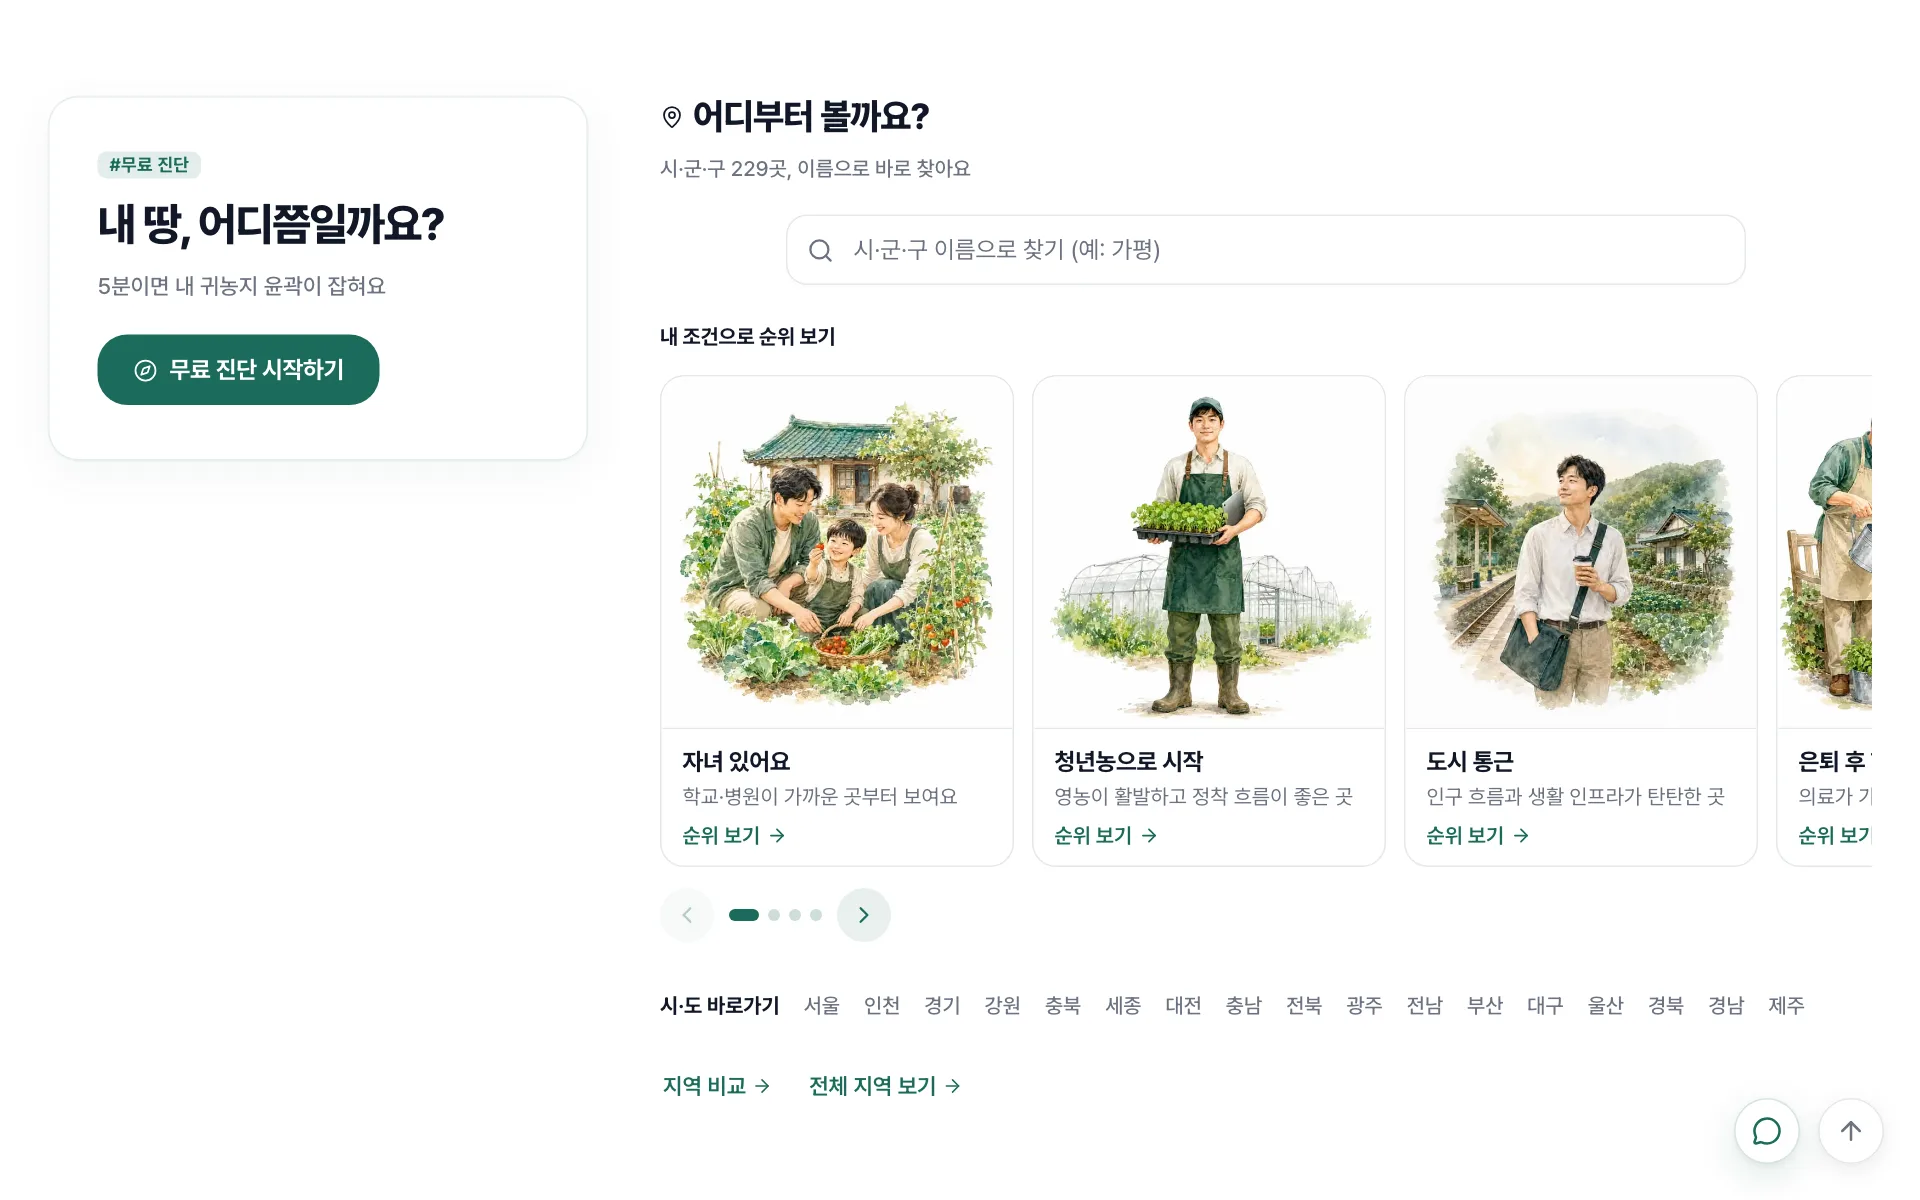
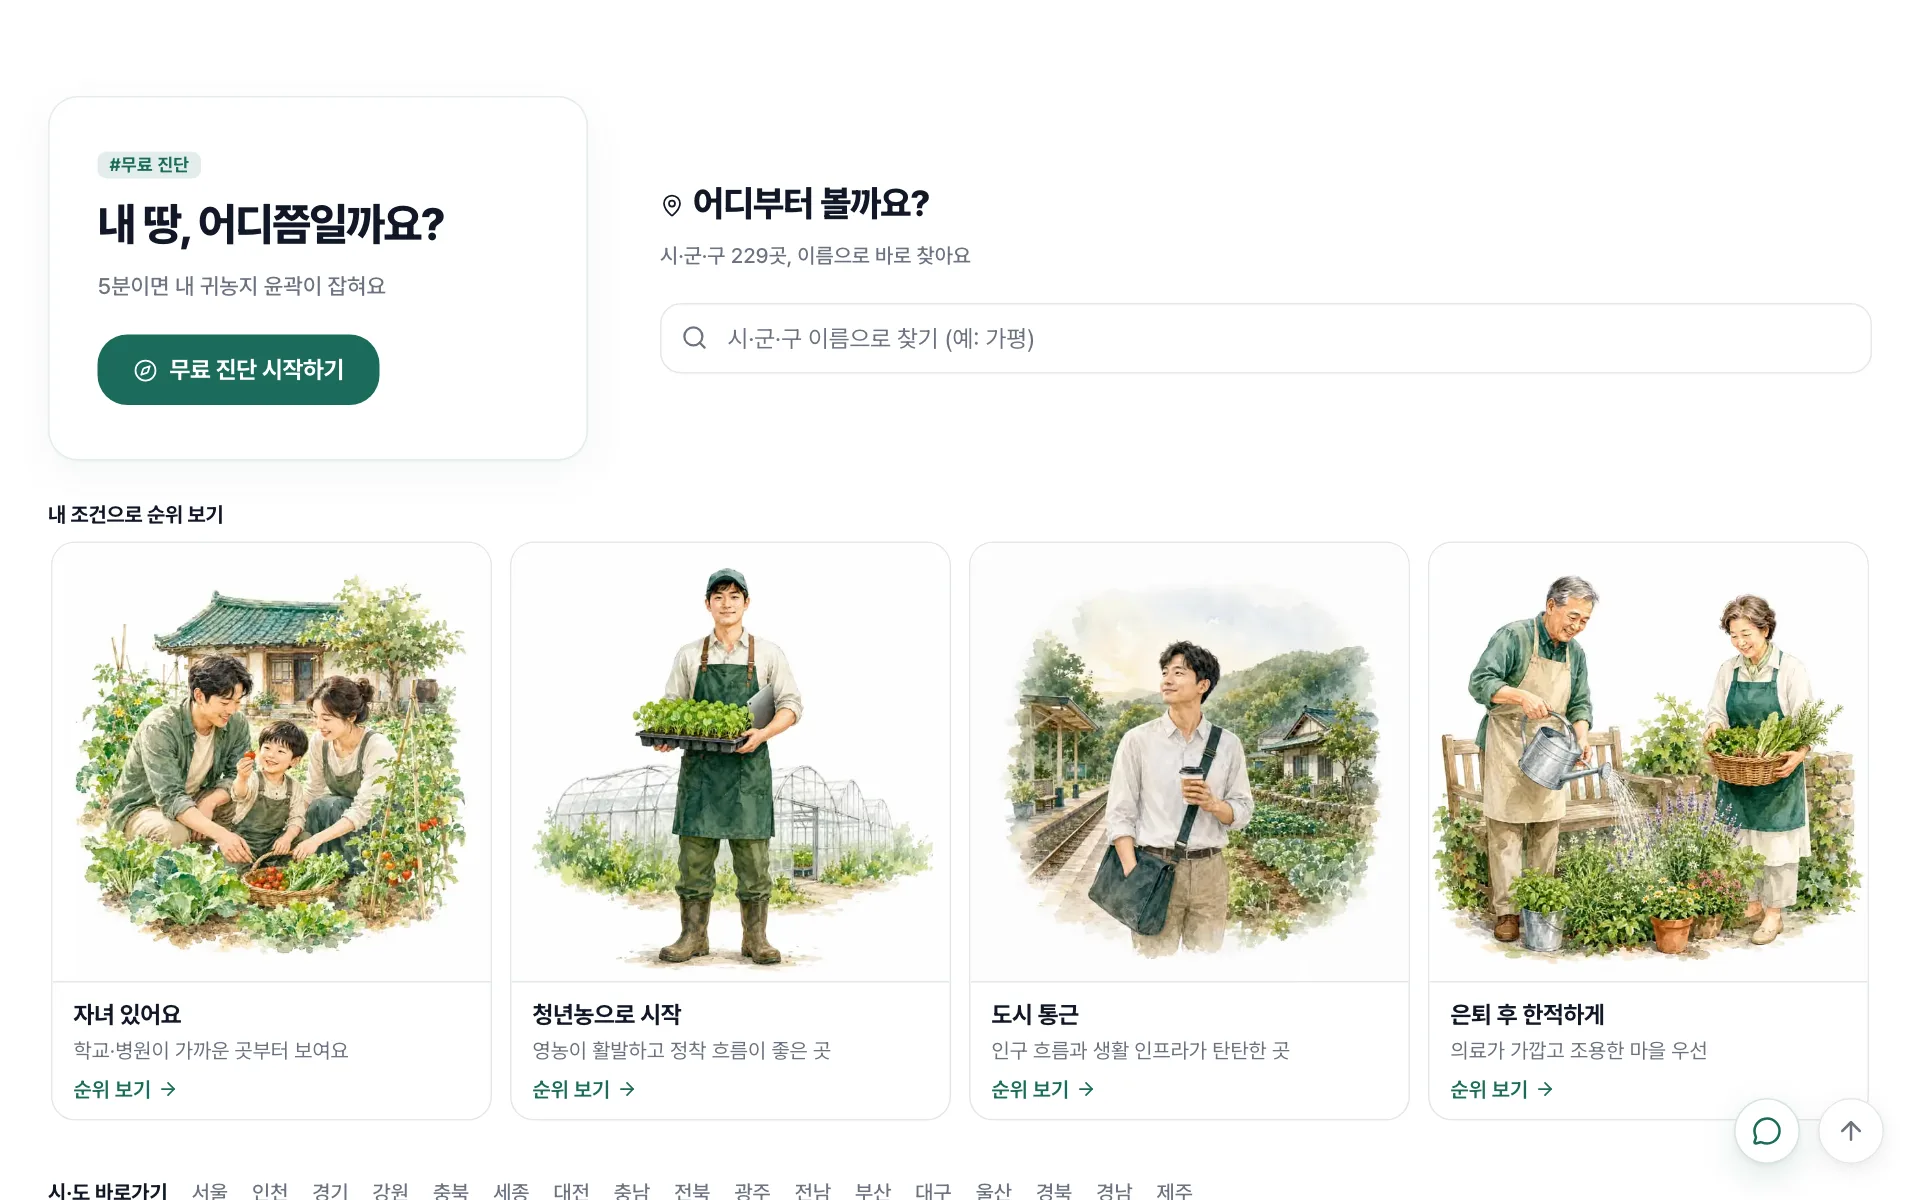
fix(landing): 바로 시작하기 레이아웃 3건 — 검색창 열 폭 정렬, 슬라이드·시·도 행 전폭 배치, 데스크탑 4장 채움
회장 데스크탑 스크린샷 자가 점검에서 발견:
- 검색창이 제목보다 84px 들여쓰기·폭 640 고정 → RegionSearch className prop + .fullWidth.fullWidth 로 열 폭 전체
- 좌 진단 카드(243px) 아래 공백 → grid-template-areas 로 슬라이드·시·도 행을 두 열에 걸치는 전폭 행으로, 1행 세로 중앙
- 4번째 카드 열 경계 잘림 → 전폭 행에서 flex:1 로 4장 채움, 스크롤 불가 시 화살표·점 숨김
- 5폭(375/768/1024/1280/1440) 실측: searchLeftDelta 0, overflowX 0. 업데이트 소식 이후 프레임 교체

diff --git a/src/components/landing/quick-start-section.module.css b/src/components/landing/quick-start-section.module.css
@@ -21,8 +21,18 @@
 @media (min-width: 1024px) {
   .section {
     grid-template-columns: minmax(0, 360px) minmax(0, 1fr);
-    gap: 48px;
+    grid-template-areas:
+      "assess region"
+      "persona persona"
+      "province province";
+    gap: 28px 48px;
+    align-items: center; /* 1행: 진단 카드 ↔ 검색 블록 세로 중앙 (9/6 회장 스크린샷 — 카드 아래 공백) */
   }
+
+  .assessCard { grid-area: assess; }
+  .regionBlock { grid-area: region; }
+  .personaBlock { grid-area: persona; }
+  .provinceBlock { grid-area: province; }
 }
 
 /* ══ 좌 — 진단 카드 ══ */
@@ -121,6 +131,11 @@
    모바일이 1순위다. 기본 선언 = 모바일(≤767) — 검색창 풀폭, 페르소나 2×2,
    시·도는 가로 스크롤이 아니라 wrap 되는 작은 텍스트 링크. 터치 타겟 44px 확보.
    ≥768 부터 밀도를 올린다(체크리스트 G: 기본 → @media 오버라이드). */
+.personaBlock,
+.provinceBlock {
+  min-width: 0;
+}
+
 .regionBlock {
   min-width: 0; /* 그리드/플렉스 자식 기본 min-width:auto → 슬라이드 트랙이 부모를 넓히는 것 방지 (9/6) */
   display: flex;
@@ -168,16 +183,13 @@
 
 /* ── 소제목 (조건별 순위 / 시·도) ── */
 .groupLabel {
-  margin: 14px 0 0;
+  margin: 0;
   font-size: var(--fs-caption);
   font-weight: 700;
   color: var(--foreground, #111827);
   letter-spacing: -0.01em;
 }
 
-@media (min-width: 640px) {
-  .groupLabel { margin-top: 18px; }
-}
 
 /* ── 시·도 바로가기 (작은 텍스트 링크 행) ── */
 .provinceRow {
@@ -185,11 +197,11 @@
   flex-wrap: wrap;
   align-items: center;
   gap: 0 2px;
-  margin: 14px 0 0;
+  margin: 0;
 }
 
 @media (min-width: 640px) {
-  .provinceRow { margin-top: 18px; gap: 0 4px; }
+  .provinceRow { gap: 0 4px; }
 }
 
 .provinceRowLabel {

diff --git a/src/components/landing/persona-slider.tsx b/src/components/landing/persona-slider.tsx
@@ -34,6 +34,7 @@ export function PersonaSlider({ items }: { items: readonly PersonaCard[] }) {
   const [active, setActive] = useState(0);
   const [canPrev, setCanPrev] = useState(false);
   const [canNext, setCanNext] = useState(true);
+  const [scrollable, setScrollable] = useState(true);
 
   useDragScroll(scrollRef);
 
@@ -45,6 +46,7 @@ export function PersonaSlider({ items }: { items: readonly PersonaCard[] }) {
     setActive(Math.min(Math.round(el.scrollLeft / step), items.length - 1));
     setCanPrev(el.scrollLeft > 4);
     setCanNext(el.scrollLeft + el.clientWidth < el.scrollWidth - 4);
+    setScrollable(el.scrollWidth > el.clientWidth + 4);
   }, [items.length]);
 
   useEffect(() => {
@@ -90,7 +92,7 @@ export function PersonaSlider({ items }: { items: readonly PersonaCard[] }) {
                 alt=""
                 width={320}
                 height={320}
-                sizes="(min-width: 768px) 200px, 62vw"
+                sizes="(min-width: 1024px) 25vw, (min-width: 768px) 200px, 62vw"
                 className={s.image}
               />
             </span>
@@ -106,7 +108,7 @@ export function PersonaSlider({ items }: { items: readonly PersonaCard[] }) {
         ))}
       </div>
 
-      <div className={s.controls}>
+      <div className={scrollable ? s.controls : `${s.controls} ${s.controlsHidden}`}>
         <button
           type="button"
           className={s.arrow}

diff --git a/src/components/region/region-search.tsx b/src/components/region/region-search.tsx
@@ -40,11 +40,13 @@ interface RegionSearchProps {
   onNavigate?: (href: string) => void;
   /** 입력창 안내 문구 (기본: 지역명 검색 예시) */
   placeholder?: string;
+  /** 루트 래퍼에 덧붙일 클래스 — 랜딩처럼 폭·정렬을 바꿀 때 (9/6) */
+  className?: string;
 }
 
 const DEFAULT_PLACEHOLDER = "지역명 검색 (예: 영주, 강원)";
 
-export function RegionSearch({ onNavigate, placeholder }: RegionSearchProps = {}) {
+export function RegionSearch({ onNavigate, placeholder, className}: RegionSearchProps = {}) {
   const router = useRouter();
   const [query, setQuery] = useState("");
   const [isFocused, setIsFocused] = useState(false);
@@ -201,7 +203,7 @@ export function RegionSearch({ onNavigate, placeholder }: RegionSearchProps = {}
   );
 
   return (
-    <div className={s.searchWrap}>
+    <div className={className ? `${s.searchWrap} ${className}` : s.searchWrap}>
       <Search size={18} className={s.searchIcon} aria-hidden="true" />
       <input
         ref={inputRef}

diff --git a/src/components/landing/quick-start-section.tsx b/src/components/landing/quick-start-section.tsx
@@ -91,10 +91,16 @@ export function QuickStartSection() {
         <div className={s.searchSlot}>
           <LandingRegionSearch />
         </div>
+      </div>
 
+      {/* ── 전폭: 조건별 순위 카드 슬라이드 (데스크탑에서 두 열에 걸침) ── */}
+      <div className={s.personaBlock}>
         <p className={s.groupLabel}>내 조건으로 순위 보기</p>
         <PersonaSlider items={PERSONAS} />
+      </div>
 
+      {/* ── 전폭: 시·도 바로가기 + 보조 링크 ── */}
+      <div className={s.provinceBlock}>
         <p className={s.provinceRow}>
           <span className={s.provinceRowLabel}>시·도 바로가기</span>
           {PROVINCES.map((province) => (

diff --git a/src/components/landing/landing-region-search.tsx b/src/components/landing/landing-region-search.tsx
@@ -26,7 +26,7 @@ const PLACEHOLDER = "시·군·구 이름으로 찾기 (예: 가평)";
 
 function SearchPlaceholder() {
   return (
-    <div className={s.placeholderWrap} aria-hidden="true">
+    <div className={`${s.placeholderWrap} ${s.fullWidth}`} aria-hidden="true">
       <Search size={18} className={s.placeholderIcon} />
       <input
         type="text"
@@ -58,6 +58,7 @@ export function LandingRegionSearch() {
   return (
     <RegionSearch
       placeholder={PLACEHOLDER}
+      className={s.fullWidth}
       onNavigate={(href) => analytics.landingCtaClick(`quickstart:search:${href}`)}
     />
   );

diff --git a/src/components/landing/landing-region-search.module.css b/src/components/landing/landing-region-search.module.css
@@ -7,8 +7,13 @@
 .placeholderWrap {
   composes: searchWrap from "../ui/dropdown.module.css";
   width: 100%;
-  max-width: 640px;
-  margin: 0 auto;
+}
+
+/* 랜딩은 열 폭 전체·좌측 정렬 — RegionSearch 기본(max-width 640 중앙)은 /regions 전용 (9/6) */
+/* 지연 로드된 region-search CSS 가 뒤에 주입돼 같은 특이성이면 진다 → 클래스 2중으로 특이성 확보 */
+.fullWidth.fullWidth {
+  max-width: none;
+  margin: 0;
 }
 
 .placeholderIcon {

diff --git a/src/components/landing/persona-slider.module.css b/src/components/landing/persona-slider.module.css
@@ -198,10 +198,15 @@
   }
 }
 
-/* ── 데스크탑 2단(우측 ≈ 550~810px): 3장 + 다음 카드 살짝 보이게 ── */
+/* ── 데스크탑: 전폭 행이라 4장이 행을 꽉 채운다(슬라이드 불필요 → 조작부는 JS 가 숨김) ── */
 @media (min-width: 1024px) {
   .card {
-    flex-basis: 236px;
-    max-width: 236px;
+    flex: 1 1 0;
+    min-width: 200px;
+    max-width: none;
   }
+}
+
+.controlsHidden {
+  display: none;
 }

diff --git a/CLAUDE.md b/CLAUDE.md
@@ -99,6 +99,7 @@
 | 2026-09-04 | **CI `tsx` devDependency 고정** — ci.yml의 무결성 스텝 8종이 `npx tsx`인데 tsx가 의존성에 없어 **job마다 레지스트리에서 다운로드**. 9/4 e24ce0a CI가 첫 `npx tsx` 스텝에서 6분 43초 걸려(평소 1초) `timeout-minutes: 10`에 두 번 연속 취소("The operation was canceled" — 빌드 스텝에서 잘렸지만 진범은 그 앞 스텝). `npm i -D tsx`로 로컬 해석 | package.json | **CI 취소는 취소된 스텝이 아니라 스텝별 소요 표를 본다** — 성공 run과 나란히 놓으면 6분짜리 이상치가 바로 보인다. `npx <미설치 패키지>`는 러너 네트워크 상태에 따라 무한정 느려질 수 있으니 CI에서 쓰는 도구는 전부 devDependency로 |
 | 2026-09-06 | **GNB 여정형 재편 + 랜딩 지역 블록 검색창 중심 개편** — ① GNB 4그룹 20항목(지역·작물/가이드/신청/자료실) → **5그룹 21항목**(탐색 4 / 비교·진단 5(+/match) / 준비 5 / 신청 4 / 참고자료 3). 메뉴 정의가 header·/more·mobile-nav morePaths·footer **4~5중 복제**(이미 `/crops` 라벨 드리프트)였던 것을 `src/lib/data/navigation.ts` SSOT로 통합, 그룹 활성은 최장 basePath 1개만(기존 코드는 `/regions/compare`에서 두 그룹 동시 active), 헤더 `nav[aria-label]` 문자열 querySelector → ref, 하단 탭 landmark 이름 분리, 드롭다운 `aria-expanded`·Enter/Esc·바깥 클릭. 900px 폭 실측 여유 24px·overflow 0 ② 랜딩 "지역부터 볼래요"(시·도 칩 17 나열) → "어디부터 볼까요?": `RegionSearch` 지연 로드 임베드(`landing-region-search.tsx`, `dynamic(ssr:false)` + `useSyncExternalStore` mounted 게이트로 BAILOUT 마커 0 유지, placeholder 높이 동일 CLS 0) + 페르소나 4 링크(`/regions/ranking?persona=`) + 시·도 17 소형 텍스트 링크 유지 → SSR 내부 링크 22→25, GA `quickstart:*` 라벨 유지·`quickstart:search:`·`quickstart:persona:` 신설. 모바일 360/375/414 실측·터치 44px·드롭다운이 하단 탭바 침범 → `region-search.module.css` 모바일 높이 캡 ③ 업데이트 소식 2건(이전/이후 데스크탑 프레임) | src/lib/data/navigation.ts, components/layout/{header,mobile-nav,footer}.tsx, app/more/page.tsx, components/landing/{quick-start-section,landing-region-search}.*, components/region/region-search.*, src/__tests__/{navigation,quick-start-section}.test.*, tests/e2e/critical-paths.spec.ts | 회장 "GNB 구조 개편 + 랜딩 지역 검증 부분 개편" → UX·프론트 2 에이전트 read-only 병렬 검토 → A/B/C 비교표 결재(GNB 5그룹 여정형 / 랜딩 검색창 중심). 근거: 30일 검색어 106건 대부분 "충북 서산·가평·고성"처럼 **지명을 이미 아는 사용자** → 검색창이 정답, 페르소나 필터는 보조. UX안의 `?mode=persona`는 normalize 화이트리스트 밖이라 308 strip — **딥링크 제안은 반드시 curl 실측**(6/16 함정 4번째). 구현 2 에이전트 병렬(파일 경계 명시, dev 서버는 Next 16 repo당 1개라 공유). 회장 중간 지시 "랜딩은 모바일까지 항상 고려" → 모바일 게이트 4종 추가 후 인수 (`feedback_landing_mobile_first_always`) |
 | 2026-09-06 | **랜딩 "내 조건으로 순위 보기" → 일러스트 카드 슬라이드** — 페르소나 4종(자녀·청년농·통근·은퇴) 텍스트 버튼을 `PersonaSlider`(components/landing, "use client", CSS scroll-snap + 화살표·점, `useDragScroll` 재사용)로 교체. 카드 전부 `<Link>`라 SSR 링크·GA `quickstart:persona:*` 유지. 일러스트는 codex(`gpt-5.5`) 병렬 4장 — 작물 일러스트와 같은 **수채화·흰 배경·텍스트 0** 톤, `public/landing/personas/{id}.webp` 640px. 함정: 그리드 자식 `.regionBlock`에 `min-width:0`이 없어 모바일에서 트랙이 부모(343px)를 970px로 넓히며 슬라이드가 잠김 → `min-width:0` + 트랙 `width:100%`. 카드 폭 모바일 62vw / 768+ 200px / 1024+ 236px(3장 + 다음 카드 peek) | src/components/landing/persona-slider.*, quick-start-section.*, public/landing/personas/*.webp | 회장 9/6 "일러스트를 가미해 슬라이드로, 모바일도, codex로 기존 톤" — 스크롤 컨테이너를 grid/flex 자식에 넣을 땐 **부모 `min-width:0` 먼저** 확인(`scrollable:false`·트랙 폭 > 부모 폭이 신호). 일러스트 톤 프롬프트는 `reference_persona_illustration_prompt` 메모리 |
+| 2026-09-06 | **회장 데스크탑 스크린샷 자가 점검 → 랜딩 바로 시작하기 레이아웃 3건 수정** — ① 검색창이 제목보다 84px 들여쓰기·폭 640 고정: RegionSearch 루트의 `max-width:640px; margin:0 auto`(/regions 전용)가 랜딩에도 적용. `className` prop 신설 + `.fullWidth.fullWidth`(지연 로드된 region-search CSS가 뒤에 주입돼 같은 특이성이면 짐 → 클래스 2중) ② 좌 진단 카드 243px vs 우 열 1,000px로 카드 아래 공백: 슬라이드·시·도 행을 `grid-template-areas`로 **두 열에 걸치는 전폭 행**으로 내리고 1행은 `align-items:center` ③ 4번째 카드가 열 경계에서 잘림: 전폭 행에서 카드 `flex:1 1 0`으로 4장이 행을 채우고, 스크롤 불가면 화살표·점을 JS로 숨김(768~1023은 200px 카드 슬라이드 유지). 5폭 실측 searchLeftDelta 0·overflowX 0 | src/components/landing/{quick-start-section,landing-region-search,persona-slider}.*, src/components/region/region-search.tsx | 회장 "이 이미지에서 이상한 부분 스스로 체크" — 실측 표(폭·가시 카드 수)만 보고 통과시켰던 것을 **스크린샷 한 장이 잡았다**. 수치 게이트에 "정렬(좌측 x 일치)"과 "열 높이 균형"이 없었음 → 랜딩 실측 스크립트에 `searchLeftDelta`·행 높이 차를 상시 항목으로 추가. 컴포넌트 재사용 시 원 페이지 전용 폭·정렬 규칙(max-width·margin auto)이 따라오는지 먼저 본다 |
 
 ---
 
